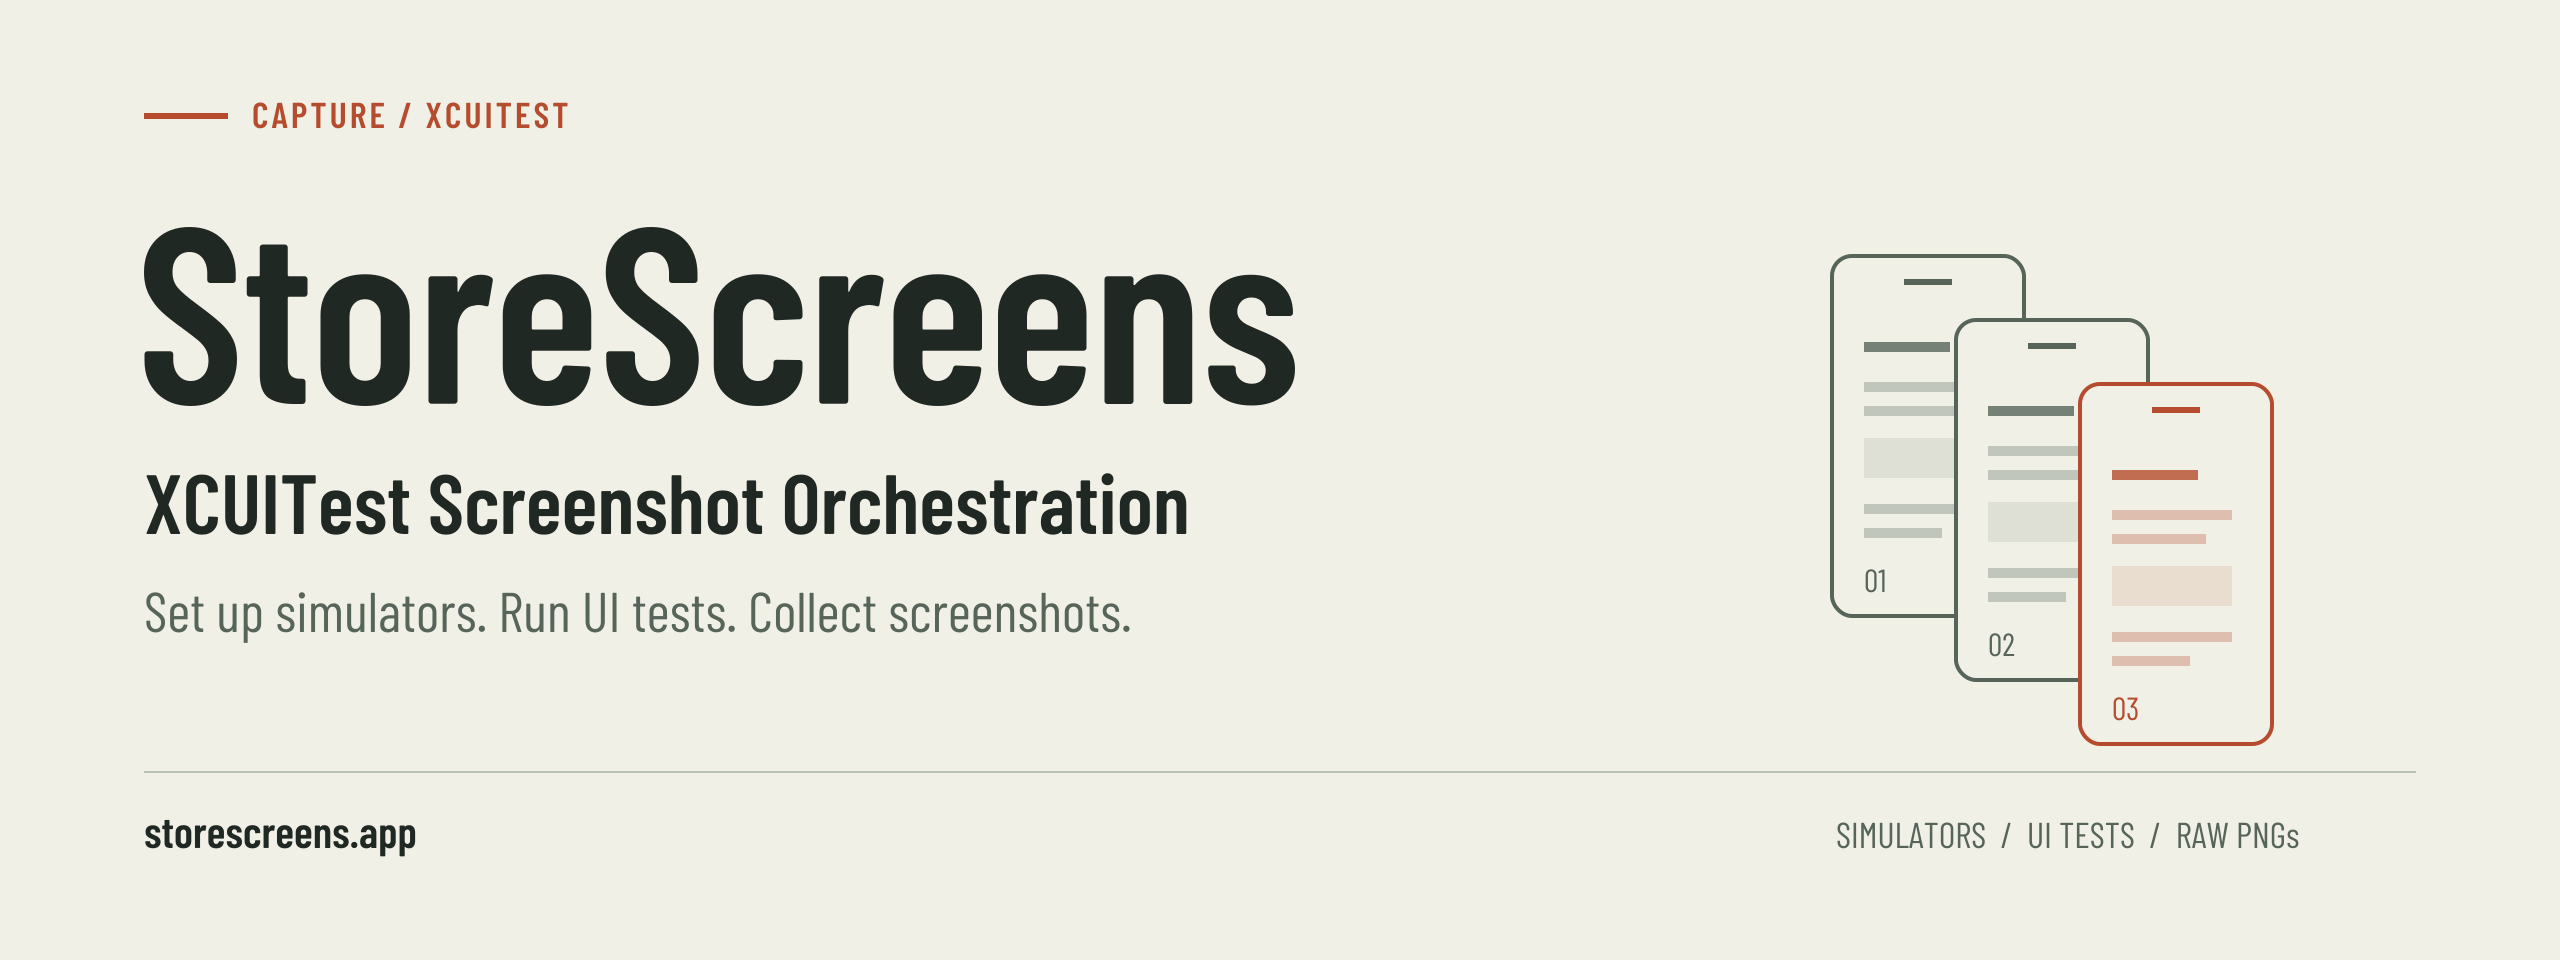
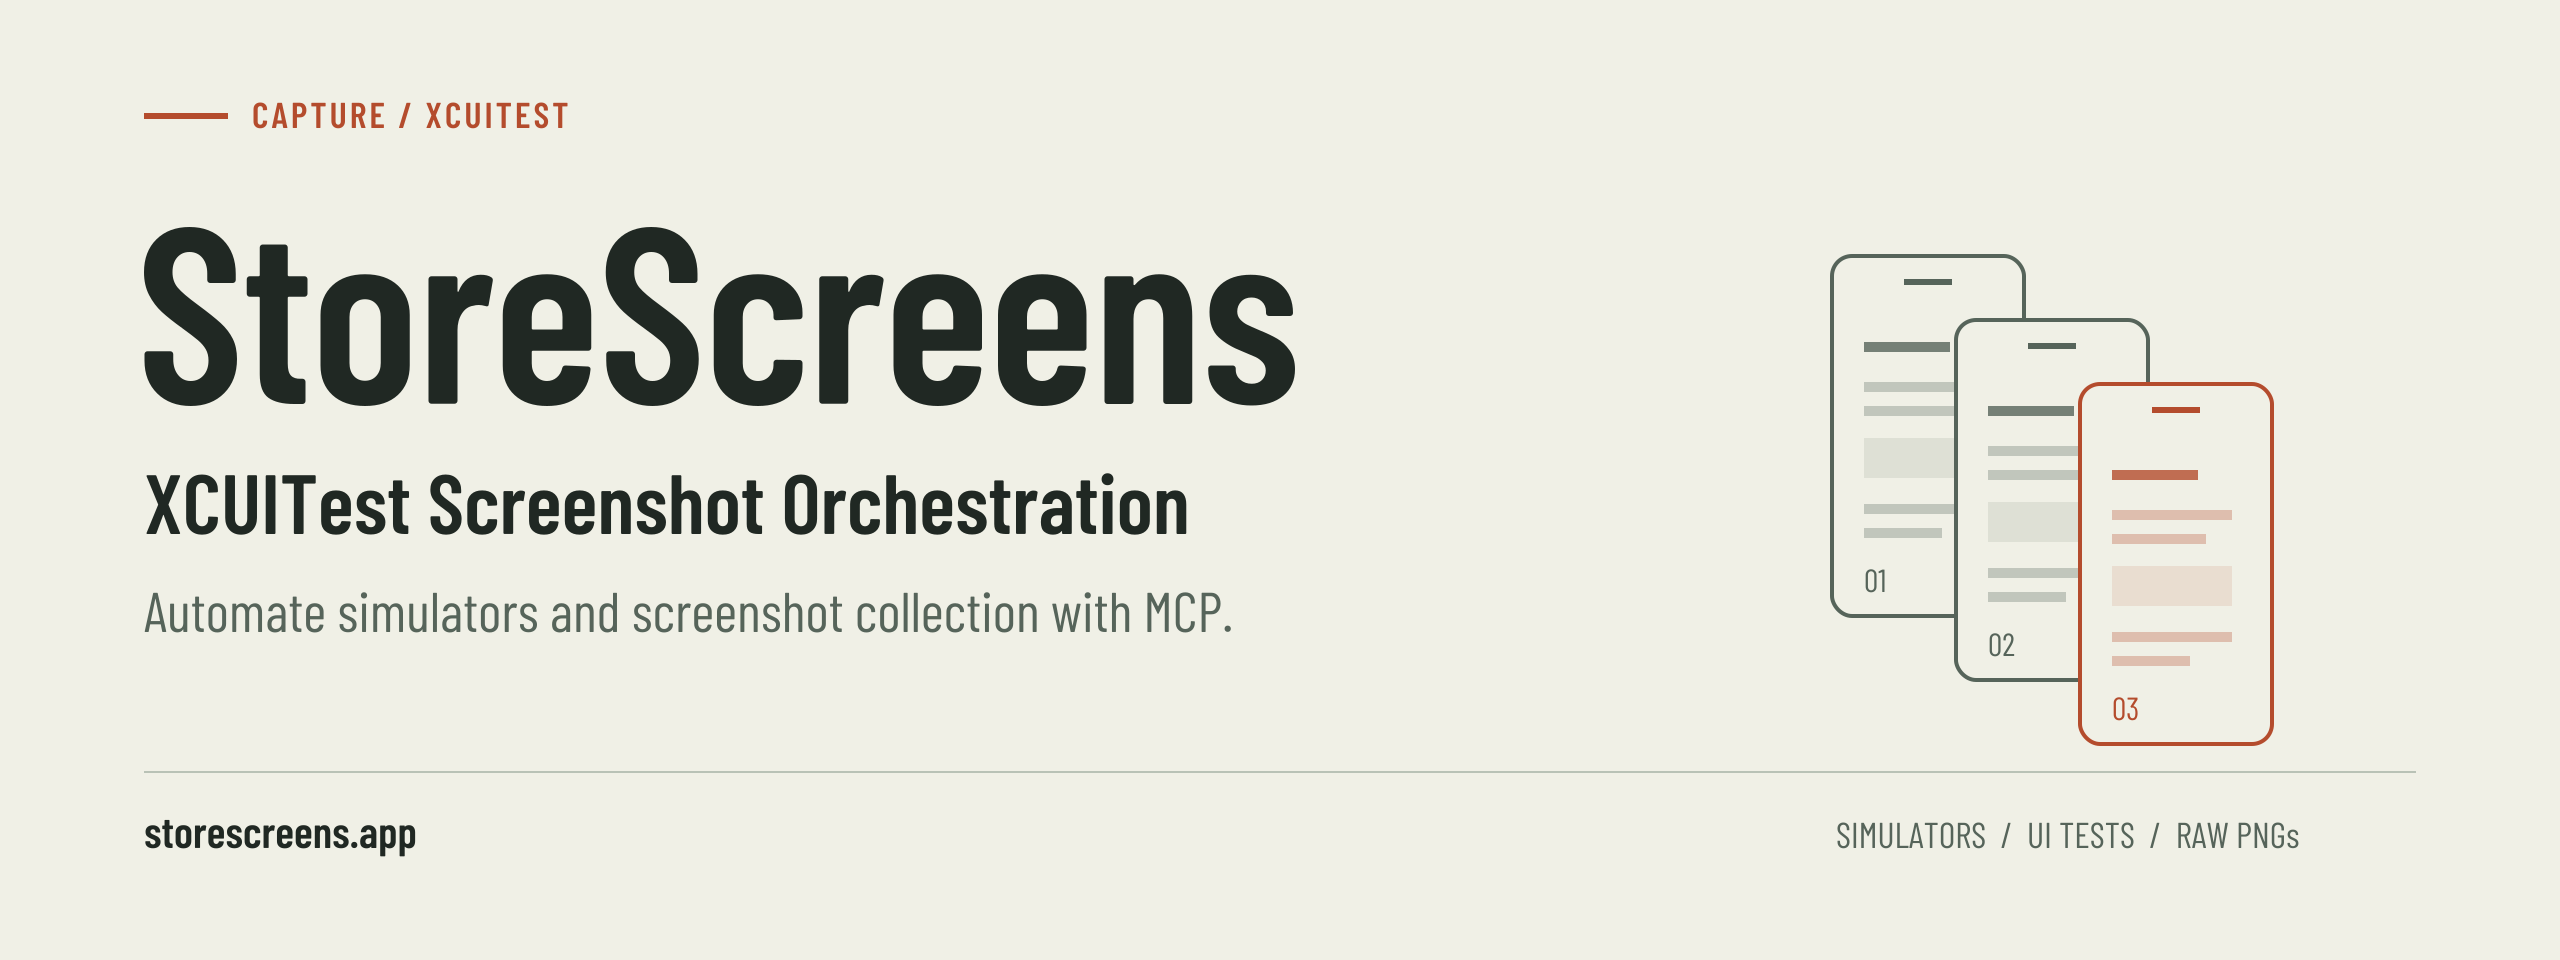
Emphasize MCP in the screenshot automation tagline

Changed region(s): [[0.0312, 0.625, 0.5, 0.6562]]

diff --git a/scripts/generate-banner.py b/scripts/generate-banner.py
@@ -28,6 +28,7 @@ FONTS = {
     for weight in ["Regular", "SemiBold"]
 }
 INK, MUTED, ACCENT, LINE, PAPER = "#202823", "#56645a", "#b44c2d", "#b9c2b6", "#f0f0e6"
+SUPPORTING_LINE = "Automate simulators and screenshot collection with MCP."
 
 
 def text(value, x, y, size, weight="Regular", color=INK, tracking=0):
@@ -62,13 +63,13 @@ def render(height):
     shift = 72 if social else 0
     parts = [f'<svg xmlns="http://www.w3.org/2000/svg" width="1280" height="{height}" viewBox="0 0 1280 {height}">',
              '<title>StoreScreens — XCUITest Screenshot Orchestration</title>',
-             '<desc>Set up simulators. Run UI tests. Collect screenshots.</desc>',
+             f'<desc>{escape(SUPPORTING_LINE)}</desc>',
              f'<rect width="1280" height="{height}" fill="{PAPER}"/>',
              f'<path d="M72 {58+shift}h42" stroke="{ACCENT}" stroke-width="3"/>',
              text("CAPTURE / XCUITEST", 126, 64+shift, 18, "SemiBold", ACCENT, 1.5),
              text("StoreScreens", 68, 202+shift, 125, "SemiBold", tracking=-1),
              text("XCUITest Screenshot Orchestration", 72, 267+shift, 42, "SemiBold"),
-             text("Set up simulators. Run UI tests. Collect screenshots.", 72, 316+shift, 28, color=MUTED),
+             text(SUPPORTING_LINE, 72, 316+shift, 28, color=MUTED),
              screen(916, 128+shift, "01"), screen(978, 160+shift, "02"), screen(1040, 192+shift, "03", True),
              f'<path d="M72 {386+shift}H1208" stroke="{LINE}"/>',
              text("storescreens.app", 72, 424+shift, 22, "SemiBold"),
